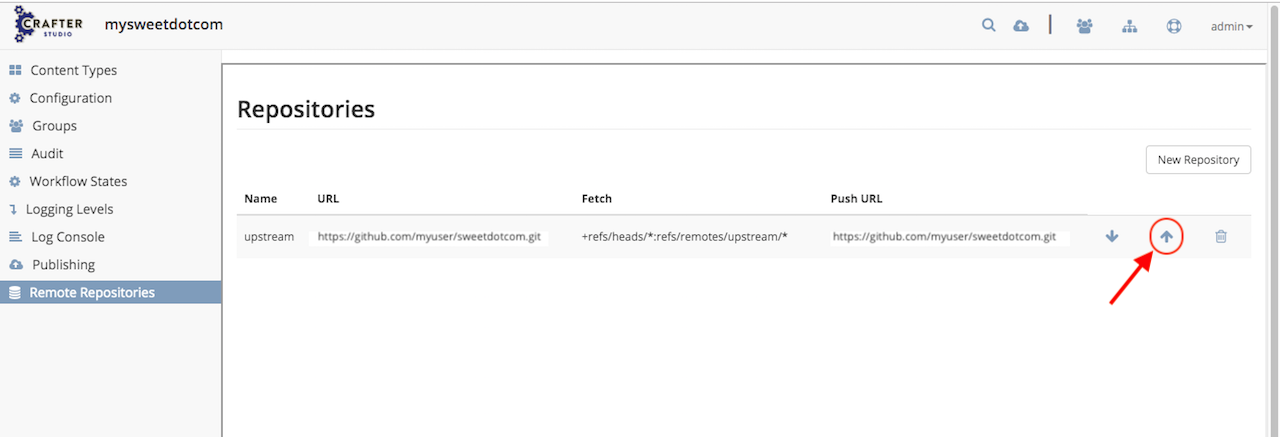
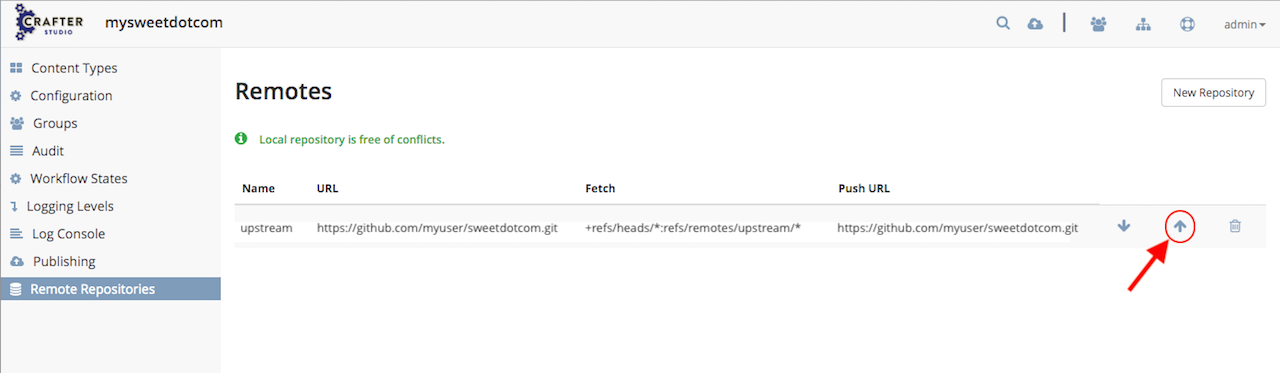
Add screens and text for pull remote conflict resolution

diff --git a/source/site-administrators/remote-repositories.rst b/source/site-administrators/remote-repositories.rst
@@ -15,9 +15,8 @@ The **Remote Repositories** under |siteConfig| allows the user to view remote re
 
 Below, we have a site **mysweetdotcom** with a link to a remote repository in GitHub:
 
-.. image:: /_static/images/developer/craftercms-github-remotes.png
-    :alt: Developer How-Tos - Pushing and Pulling from the Remote Repository
-    :width: 100 %
+.. image:: /_static/images/site-admin/site-config-remote-repositories.png
+    :alt: Site Admin - Site Config Remote Repositories
     :align: center
 
 ----------------
@@ -44,6 +43,69 @@ In the **Pull** dialog, select the branch in the remote repository you'd like to
 .. image:: /_static/images/site-admin/site-config-pull-from-remote-options.png
     :alt: Remote Repositories - Pull from Remote Repository Options
     :align: center
+
+^^^^^^^^^^^^^^^^^^^
+Conflict Resolution
+^^^^^^^^^^^^^^^^^^^
+When performing a pull from remote repository, Git is usually able to merge changes from the remote repository to your local files.  Sometimes, a line you edited in a file may have also been edited on the remote repository which will result in a merge conflict when you pull from the remote repository.  In this case, you will have to step in and tell Git what to do.  Crafter Studio supports resolving the conflict from the ``Remote Repositories`` dashboard.
+
+When you perform a pull from repository, and there's a conflict between your local files and the remote repository files, the message ``Pull from remote failed`` will appear:
+
+.. image:: /_static/images/site-admin/site-config-pull-from-remote-error.png
+    :alt: Remote Repositories - Pull from Remote Repository Error
+    :align: center
+
+After closing the error message by clicking the ``Ok`` button, you will then be presented with options on how to resolve the conflict
+
+.. image:: /_static/images/site-admin/site-config-pull-from-remote-fix.png
+    :alt: Remote Repositories - Pull from Remote Repository Error Resolution Screen
+    :align: center
+
+In the next screen, you will be given the option to cancel the pull operation:
+
+.. image:: /_static/images/site-admin/site-config-cancel-pull.png
+    :alt: Remote Repositories - Cancel Pull From Remote Repository
+    :align: center
+
+
+You will also be presented with options to resolve the conflict:
+
+* **Accept Remote**: accept the changes from the remote repository and discard your local changes
+
+  .. image:: /_static/images/site-admin/site-config-accept-remote.png
+      :alt: Remote Repositories - Pull from Remote Repository Conflict Resolution Accept Remote
+      :align: center
+
+* **Keep Local**: keep your local changes and discard changes from the remote repository
+
+  .. image:: /_static/images/site-admin/site-config-keep-local.png
+      :alt: Remote Repositories - Pull from Remote Repository Conflict Resolution Keep Local
+      :align: center
+
+* **Diff**: let's you view the differences between your local files and the files in the remote repository.  Crafter Studio let's you view the differences a couple of ways:
+
+  .. image:: /_static/images/site-admin/site-config-conflict-diff-stacked.png
+      :alt: Remote Repositories - Pull from Remote Repository Conflict Resolution Keep Local
+      :align: center
+
+  |
+
+  .. image:: /_static/images/site-admin/site-config-conflict-diff-split.png
+      :alt: Remote Repositories - Pull from Remote Repository Conflict Resolution Keep Local
+      :align: center
+
+Select the appropriate button for your case, ``Keep Local`` or ``Accept Remote`` then click on ``Confirm``.  You will then be directed to commit the changes done to your local or cancel the pull operation.
+
+.. image:: /_static/images/site-admin/site-config-commit-res-btn.png
+    :alt: Remote Repositories - Pull from Remote Repository Conflict Resolution Keep Local
+    :align: center
+
+When committing your changes, you will then be asked to supply a message for the repository history log and you're done resolving the conflict
+
+.. image:: /_static/images/site-admin/site-config-commit-res.png
+    :alt: Remote Repositories - Pull from Remote Repository Conflict Resolution Keep Local
+    :align: center
+
 
 ------------------
 Push to Repository

diff --git a/source/site-administrators/studio/site-config-tools.rst b/source/site-administrators/studio/site-config-tools.rst
@@ -1,3 +1,6 @@
+.. index:: Site Config Tools Configuration
+
+.. _site-config-tools:
 
 =================
 Site Config Tools
